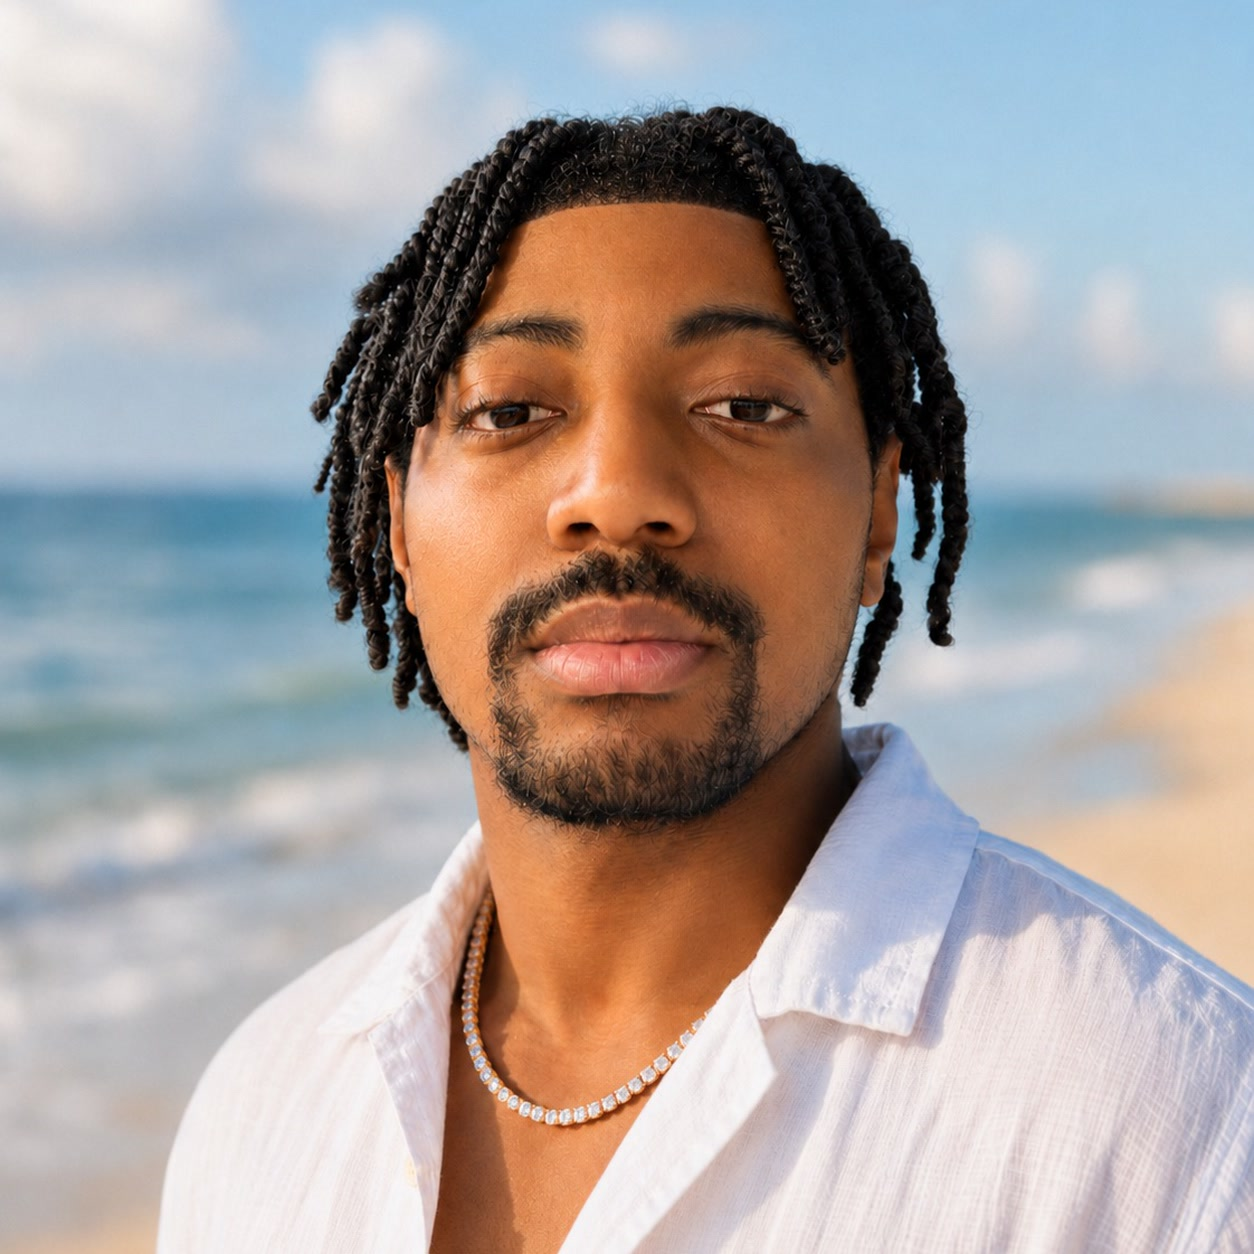
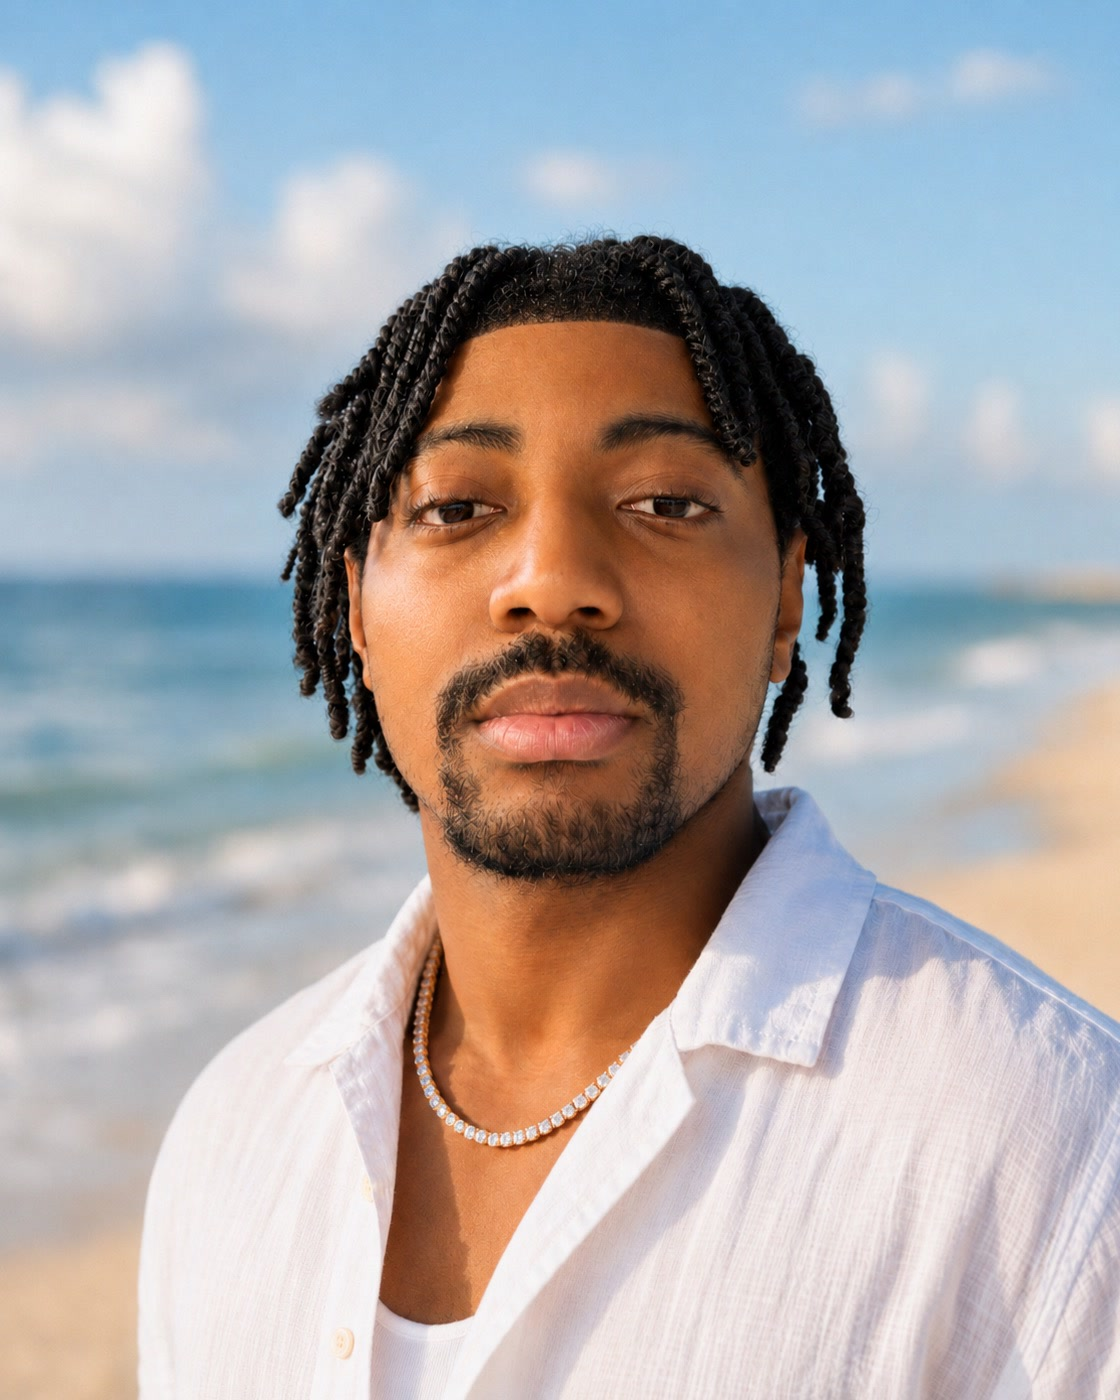
Make hero portrait prominent

diff --git a/assets/css/site.css b/assets/css/site.css
@@ -179,24 +179,29 @@ button:focus-visible {
 }
 
 .hero-content {
-    max-width: 800px;
+    display: grid;
+    grid-template-columns: minmax(300px, 440px) minmax(0, 1fr);
+    align-items: center;
+    gap: clamp(2.5rem, 5vw, 5.5rem);
+    max-width: 1180px;
     margin: 0 auto;
-    padding: 4rem 2rem;
-    text-align: center;
+    padding: 4.5rem 2rem;
+    text-align: left;
     width: 100%;
 }
 
 .hero-photo-shell {
-    width: 148px;
-    height: 148px;
-    margin: 0 auto 1.5rem;
-    padding: 0.45rem;
-    border-radius: 34px;
+    grid-row: 1 / span 5;
+    width: min(36vw, 440px);
+    min-width: 320px;
+    aspect-ratio: 4 / 5;
+    padding: 0.65rem;
+    border-radius: 42px;
     background:
         linear-gradient(145deg, rgba(125, 199, 255, 0.3), rgba(207, 84, 100, 0.26)),
         rgba(255, 255, 255, 0.04);
     border: 1px solid rgba(255, 255, 255, 0.18);
-    box-shadow: 0 22px 45px rgba(0, 0, 0, 0.38);
+    box-shadow: 0 32px 80px rgba(0, 0, 0, 0.48);
 }
 
 .hero-profile-image {
@@ -204,7 +209,7 @@ button:focus-visible {
     width: 100%;
     height: 100%;
     object-fit: cover;
-    border-radius: 26px;
+    border-radius: 32px;
 }
 
 .hero-title {
@@ -225,7 +230,7 @@ button:focus-visible {
 .hero-description {
     font-size: 1.125rem;
     max-width: 680px;
-    margin: 0 auto 2rem;
+    margin: 0 0 2rem;
     color: rgba(255, 255, 255, 0.85);
     line-height: 1.8;
 }
@@ -233,9 +238,9 @@ button:focus-visible {
 .hero-buttons {
     display: flex;
     gap: 1rem;
-    justify-content: center;
+    justify-content: flex-start;
     max-width: 440px;
-    margin: 0 auto 2rem;
+    margin: 0 0 2rem;
 }
 
 .btn {
@@ -276,7 +281,7 @@ button:focus-visible {
 .hero-social {
     display: flex;
     gap: 1.5rem;
-    justify-content: center;
+    justify-content: flex-start;
 }
 
 .hero-social a {
@@ -717,14 +722,23 @@ button:focus-visible {
         font-size: 2.5rem;
     }
 
+    .hero-content {
+        grid-template-columns: 1fr;
+        gap: 2rem;
+        padding: 3rem 1.5rem;
+        text-align: center;
+    }
+
     .hero-photo-shell {
-        width: 128px;
-        height: 128px;
-        border-radius: 30px;
+        grid-row: auto;
+        width: clamp(300px, 62vw, 360px);
+        min-width: 0;
+        margin: 0 auto;
+        border-radius: 38px;
     }
 
     .hero-profile-image {
-        border-radius: 22px;
+        border-radius: 29px;
     }
     
     .hero-subtitle {
@@ -735,20 +749,22 @@ button:focus-visible {
         flex-direction: column;
         align-items: stretch;
         max-width: 360px;
+        margin: 0 auto 2rem;
     }
 
     .btn {
         width: 100%;
     }
 
-    .hero-content {
-        padding: 3rem 1.5rem;
-    }
-
     .hero-description {
         font-size: 1rem;
         line-height: 1.7;
         max-width: 360px;
+        margin: 0 auto 2rem;
+    }
+
+    .hero-social {
+        justify-content: center;
     }
     
     .section-title {
@@ -809,8 +825,7 @@ button:focus-visible {
     }
 
     .hero-photo-shell {
-        width: 112px;
-        height: 112px;
+        width: clamp(270px, 72vw, 300px);
         margin-bottom: 1.2rem;
     }
 

diff --git a/index.html b/index.html
@@ -95,8 +95,8 @@
                 "@id": "https://brandontemple.com/#profile-image",
                 "url": "https://brandontemple.com/assets/images/brandon-profile-photo.jpg",
                 "contentUrl": "https://brandontemple.com/assets/images/brandon-profile-photo.jpg",
-                "width": 1254,
-                "height": 1254,
+                "width": 1120,
+                "height": 1400,
                 "caption": "Portrait of Brandon Temple",
                 "representativeOfPage": true
             },
@@ -160,7 +160,7 @@
         
         <div class="hero-content">
             <div class="hero-photo-shell">
-                <img src="/assets/images/brandon-profile-photo.jpg" alt="Portrait of Brandon Temple at the beach" width="1254" height="1254" class="hero-profile-image" fetchpriority="high">
+                <img src="/assets/images/brandon-profile-photo.jpg" alt="Portrait of Brandon Temple at the beach" width="1120" height="1400" class="hero-profile-image" fetchpriority="high">
             </div>
             <h1 class="hero-title">Brandon Temple</h1>
             <p class="hero-subtitle">Software Engineer</p>
